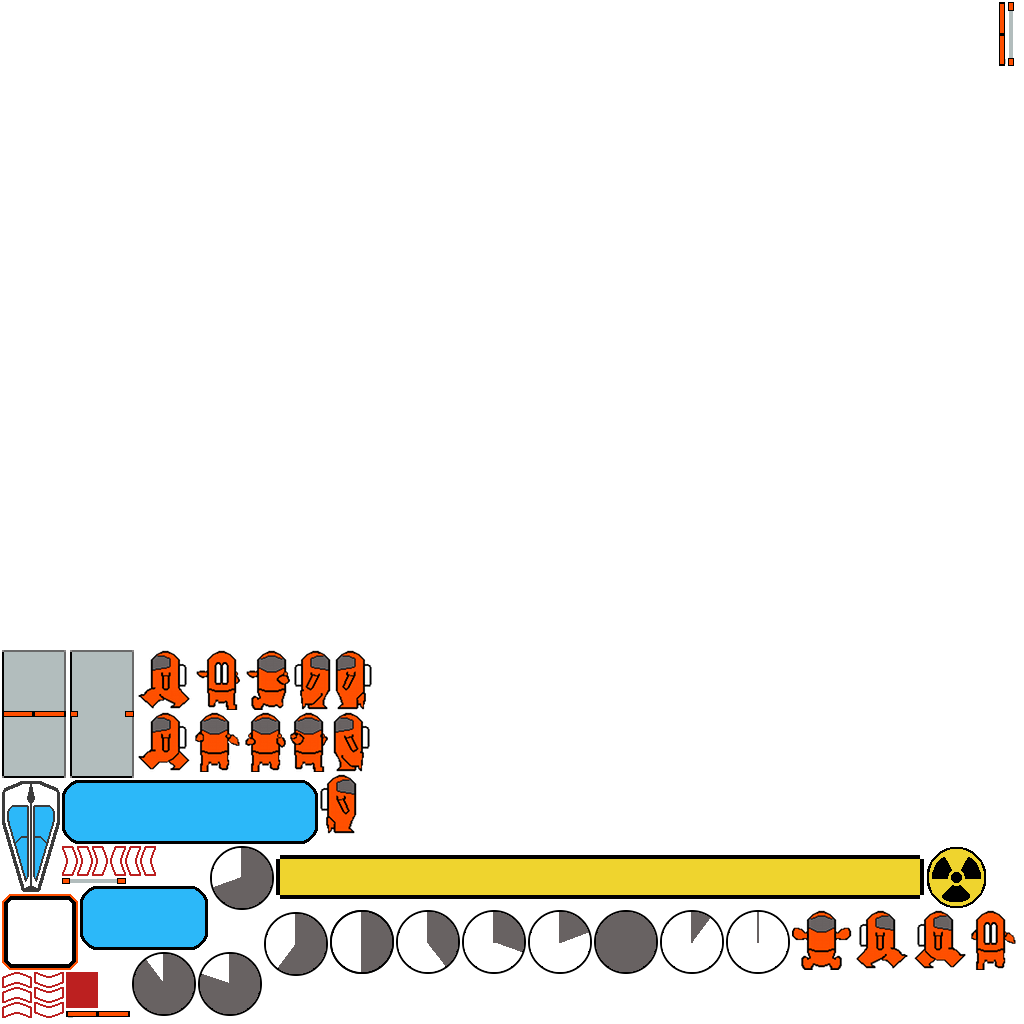
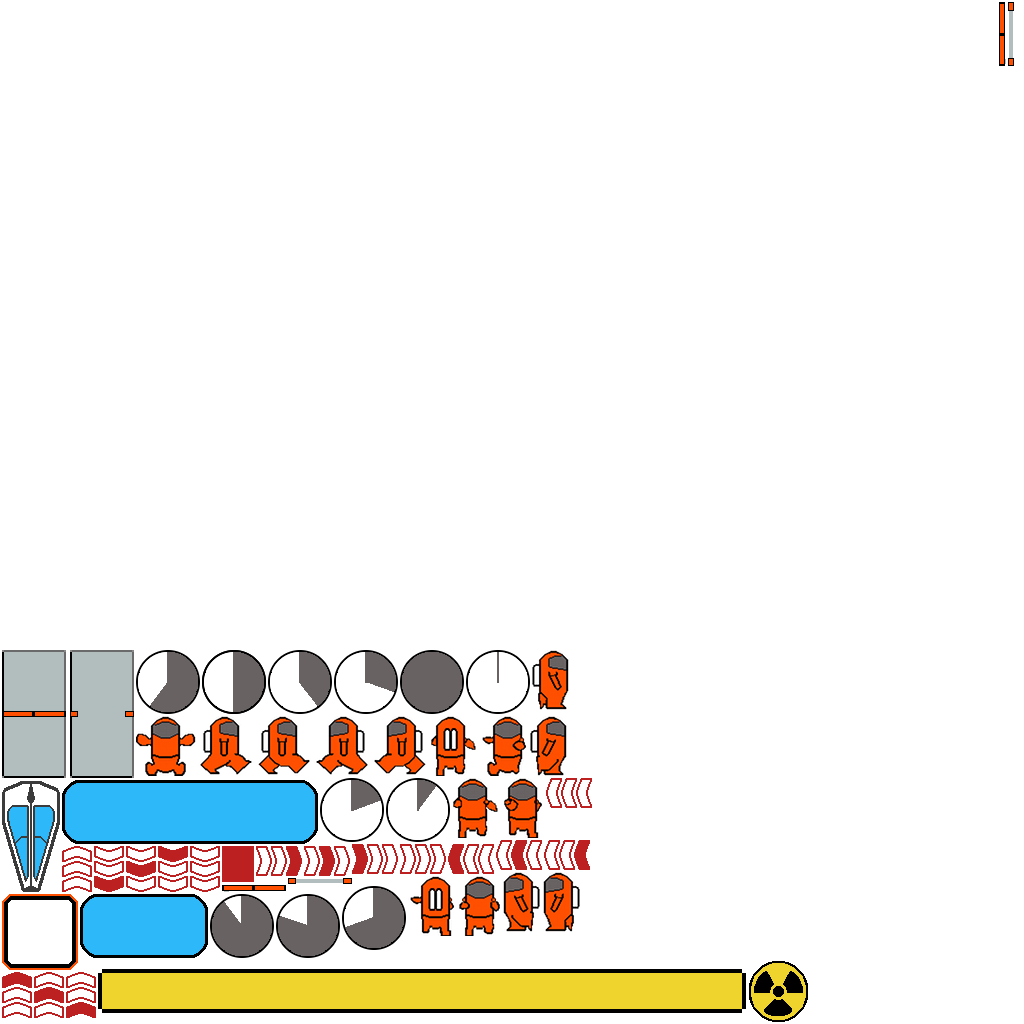
Animated the move tiles

Changed region(s): [[0.0, 0.625, 1.0, 1.0]]

diff --git a/UnityLD27/Assets/Scripts/Game Objects/MoveTile.cs b/UnityLD27/Assets/Scripts/Game Objects/MoveTile.cs
@@ -16,19 +16,34 @@ public class MoveTile : FSprite
 	private int _frameIndex = 0;
 	private float _placedAt;
 	
-	public MoveTile() : base("moveTileUp"){
+	public MoveTile() : base("moveTileUp0"){
 				
-		_leftFrameElements = new FAtlasElement[1];
-		_rightFrameElements = new FAtlasElement[1];
-		_upFrameElements = new FAtlasElement[1];
-		_downFrameElements = new FAtlasElement[1];
+		_leftFrameElements = new FAtlasElement[4];
+		_rightFrameElements = new FAtlasElement[4];
+		_upFrameElements = new FAtlasElement[4];
+		_downFrameElements = new FAtlasElement[4];
 		
 		FAtlasManager am = Futile.atlasManager;
 		
-		_leftFrameElements[0] = am.GetElementWithName("moveTileLeft");
-		_rightFrameElements[0] = am.GetElementWithName("moveTileRight");
-		_upFrameElements[0] = am.GetElementWithName("moveTileUp");
-		_downFrameElements[0] = am.GetElementWithName("moveTileDown");
+		_leftFrameElements[0] = am.GetElementWithName("moveTileLeft0");
+		_leftFrameElements[1] = am.GetElementWithName("moveTileLeft1");
+		_leftFrameElements[2] = am.GetElementWithName("moveTileLeft2");
+		_leftFrameElements[3] = am.GetElementWithName("moveTileLeft3");
+		
+		_rightFrameElements[0] = am.GetElementWithName("moveTileRight0");
+		_rightFrameElements[1] = am.GetElementWithName("moveTileRight1");
+		_rightFrameElements[2] = am.GetElementWithName("moveTileRight2");
+		_rightFrameElements[3] = am.GetElementWithName("moveTileRight3");
+		
+		_upFrameElements[0] = am.GetElementWithName("moveTileUp0");
+		_upFrameElements[1] = am.GetElementWithName("moveTileUp1");
+		_upFrameElements[2] = am.GetElementWithName("moveTileUp2");
+		_upFrameElements[3] = am.GetElementWithName("moveTileUp3");
+		
+		_downFrameElements[0] = am.GetElementWithName("moveTileDown0");
+		_downFrameElements[1] = am.GetElementWithName("moveTileDown1");
+		_downFrameElements[2] = am.GetElementWithName("moveTileDown2");
+		_downFrameElements[3] = am.GetElementWithName("moveTileDown3");
 	
 		_placedAt = 0.0f;
 		
@@ -73,7 +88,7 @@ public class MoveTile : FSprite
 //				this.x += movement;
 //			} 	
 			
-			if(Time.frameCount % 10 == 0) //update every other 10th frame or when the direction changes
+			if(Time.frameCount % 16 == 0) //update every other 10th frame or when the direction changes
 			{
 				FAtlasElement[] _frameElements = _rightFrameElements;
 				
